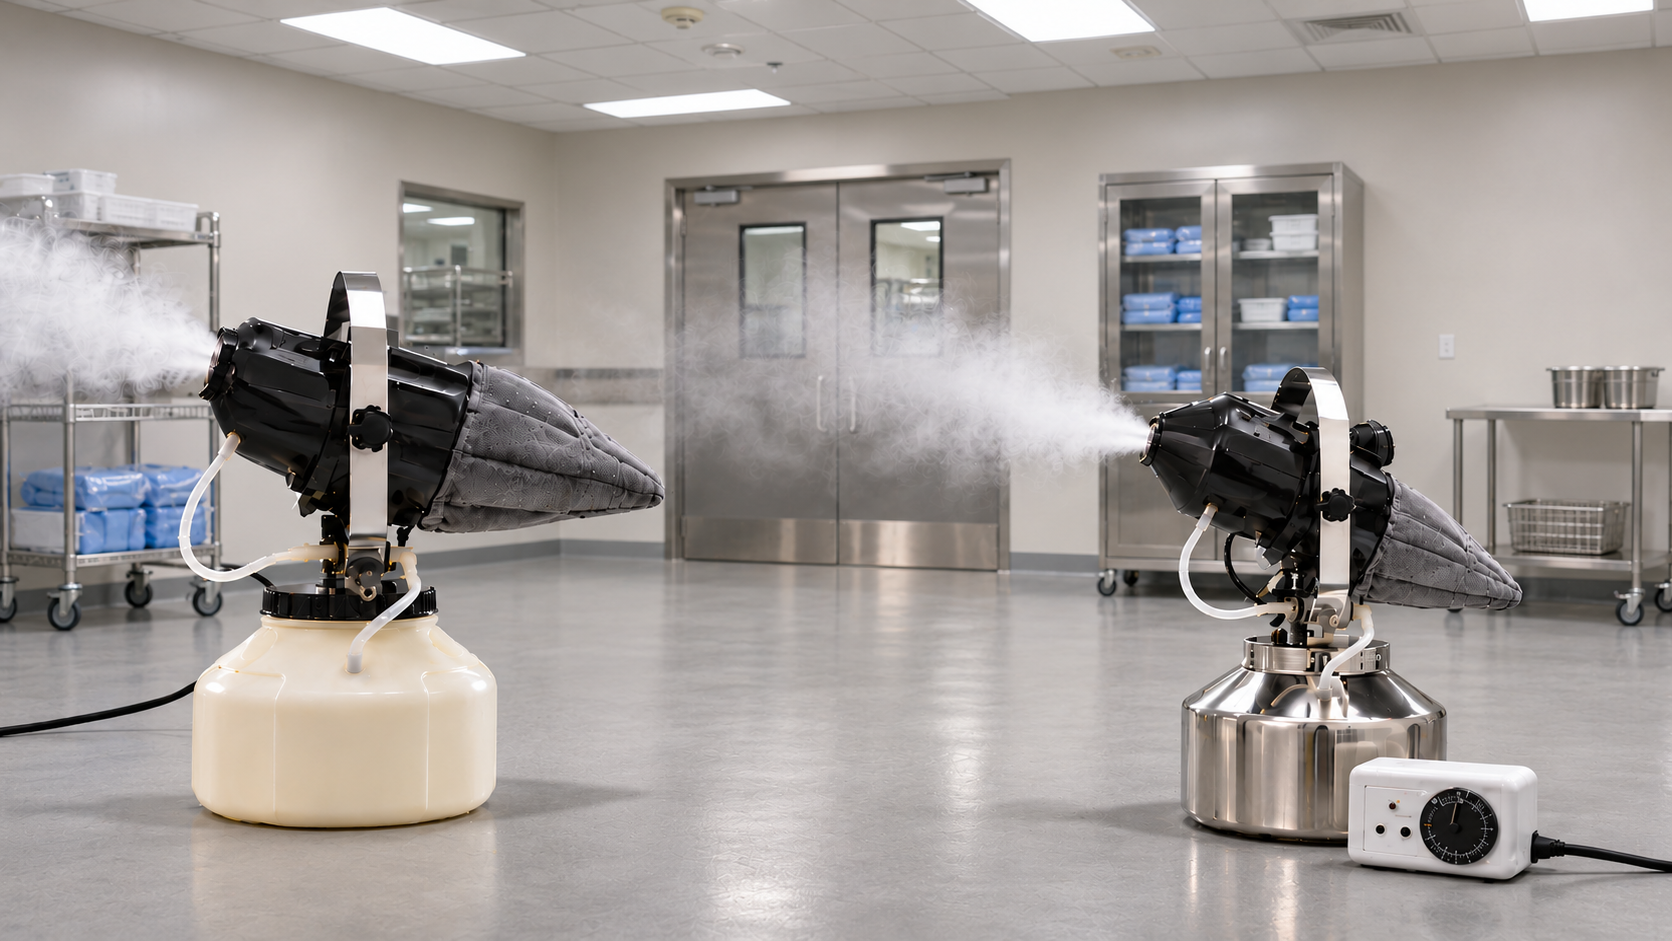
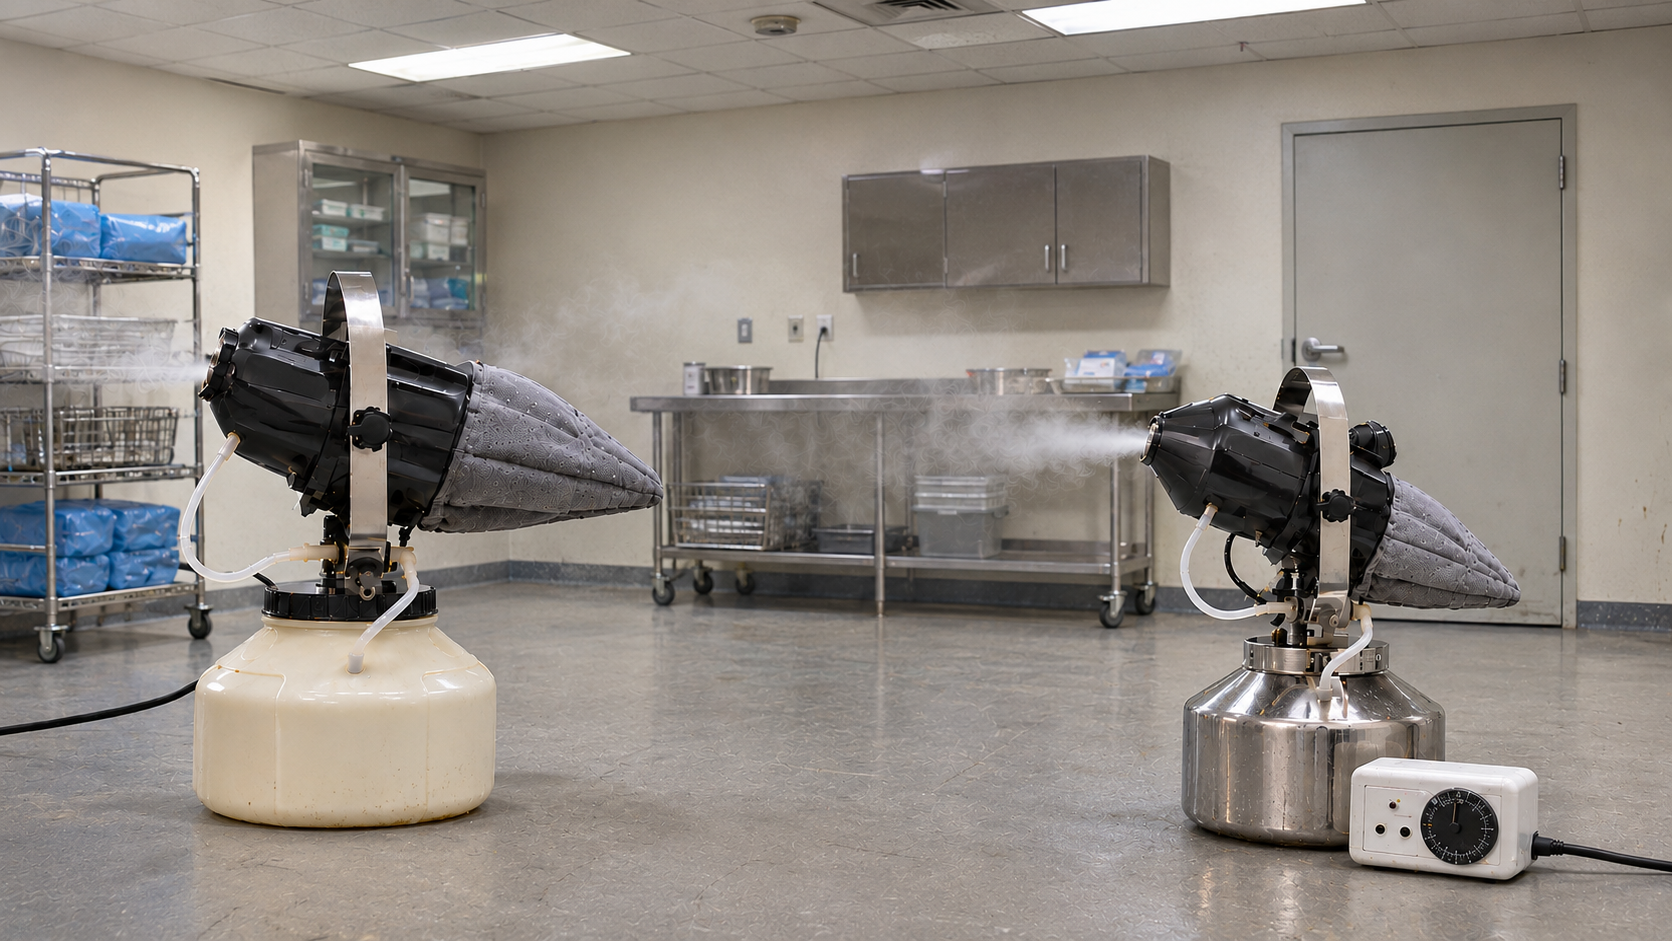
feat: add site-wide breadcrumb navigation

diff --git a/css/style.css b/css/style.css
@@ -143,6 +143,38 @@ img {
   width: auto;
 }
 
+.breadcrumbs {
+  padding: 112px 20px 18px;
+  background: #f7f7f7;
+}
+
+.breadcrumbs-inner {
+  display: flex;
+  align-items: center;
+  flex-wrap: wrap;
+  gap: 9px;
+  width: min(1240px, 100%);
+  margin: 0 auto;
+  color: #737373;
+  font-family: "Montserrat", sans-serif;
+  font-size: 13px;
+  font-weight: 600;
+}
+
+.breadcrumbs a {
+  color: #ed1c24;
+  text-decoration: none;
+}
+
+.breadcrumbs a:hover,
+.breadcrumbs a:focus-visible {
+  text-decoration: underline;
+}
+
+.breadcrumbs-separator {
+  color: #aaa;
+}
+
 .nav-wrapper {
   display: flex;
   align-items: center;

diff --git a/includes/blog-posts.php b/includes/blog-posts.php
@@ -1,46 +1,49 @@
 <?php
 
-$medicalGasContent = [
-  'Medical gas systems are central to patient-care areas, so planning should begin with the facility’s clinical requirements, room schedule and expected future demand. The source equipment, distribution network and terminal units need to be considered as one connected system.',
-  'Access for inspection and maintenance is as important as initial installation. Clearly identified zones, documented routes and coordinated service access can make future testing and repairs less disruptive to daily operations.',
-  'Every project should be designed, installed and verified by qualified professionals in accordance with the applicable local codes, standards and hospital procedures. A structured handover with drawings, operating information and maintenance records supports long-term reliability.',
+$foggingMachineContent = [
+  'Selecting a fogging machine begins with the space, application method and coverage requirement. Consider the room volume, the type of solution being used and the practical access available for an operator during treatment.',
+  'ULV equipment is often chosen where a fine, consistent aerosol is needed. Tank capacity, output control, timer functions and the ease of cleaning the machine all affect how well it fits into a regular workflow.',
+  'Always follow the chemical manufacturer\'s instructions, site safety procedures and applicable local requirements. A documented process for preparation, application and post-treatment cleaning helps teams use the equipment consistently.',
 ];
 
-$airflowContent = [
-  'Operating-theatre ventilation is not only an equipment decision. Room layout, ceiling coordination, supply and return locations, door use and maintenance access all influence how a system performs in day-to-day use.',
-  'A practical design allows filters and critical components to be inspected without unnecessary disruption. Teams should also plan for controls, monitoring points and service clearances early, before construction details are fixed.',
-  'Ventilation requirements vary by facility and procedure type. Working with qualified healthcare-design and engineering professionals helps ensure that the final approach follows the applicable standards and supports the facility’s infection-prevention programme.',
+$otEquipmentContent = [
+  'Operating theatre equipment should be planned as one coordinated environment rather than as separate purchases. The layout, clinical workflow, service access and connections for utilities all influence day-to-day usability.',
+  'Prioritise equipment that supports safe movement around the theatre and leaves clear access for cleaning and maintenance. Surgical lights, pendants, tables, control systems and storage should be considered alongside the room\'s HVAC and electrical design.',
+  'A clear equipment schedule, coordinated drawings and early input from clinical and engineering teams reduce changes during installation. Handover documentation and staff familiarisation then help the theatre operate as intended.',
 ];
 
-$equipmentCareContent = [
-  'Shared medical equipment needs a clear cleaning process that staff can follow reliably between uses. The process should identify who is responsible, which surfaces or components are included, and when the task must be completed.',
-  'Equipment materials and manufacturer instructions matter when selecting cleaning products and methods. A compatible process helps protect the device while supporting the facility’s infection-prevention procedures.',
-  'Written instructions, staff training and routine checks make the workflow easier to maintain. Facilities should review their process whenever equipment, products or local requirements change.',
+$ultrasonicCleanerContent = [
+  'Industrial ultrasonic cleaners use high-frequency sound waves in a cleaning solution to help remove contaminants from components with detailed surfaces, recesses and hard-to-reach areas.',
+  'When choosing a unit, assess the tank size, load type, cleaning chemistry, temperature control and cycle requirements. Basket design and drainage arrangements are also important for a practical and repeatable process.',
+  'The cleaning solution, operating temperature and cycle time should be selected for the material and contamination involved. Follow equipment instructions and site procedures for safe handling, rinsing, drying and maintenance.',
 ];
 
 return [
   [
-    'slug' => 'medical-gas-pipeline-planning',
-    'category' => 'Medical infrastructure',
-    'title' => 'Medical Gas Pipeline Planning: What Facilities Should Consider',
-    'excerpt' => 'A practical look at the design decisions that support reliable medical-gas delivery from source to point of use.',
-    'image' => 'images/medical-pipeline.png',
-    'content' => $medicalGasContent,
+    'slug' => 'choosing-a-fogging-machine',
+    'category' => 'Fogging & decontamination',
+    'title' => 'Choosing a Fogging Machine: Key Factors for Effective Coverage',
+    'excerpt' => 'A practical guide to selecting ULV fogging equipment for your space, workflow and treatment requirements.',
+    'image' => 'images/products/ulv-skd1100-steel.png',
+    'detail_image' => 'images/products/ulv-tantra.png',
+    'content' => $foggingMachineContent,
   ],
   [
-    'slug' => 'operating-theatre-airflow-planning',
+    'slug' => 'operating-theatre-equipment-planning',
     'category' => 'Operating theatre design',
-    'title' => 'Operating Theatre Airflow: Planning for Performance and Maintainability',
-    'excerpt' => 'Why room layout, filtration access and maintenance planning all matter when designing OT ventilation systems.',
-    'image' => 'images/products/air-handling-unit.png',
-    'content' => $airflowContent,
+    'title' => 'Operating Theatre Equipment: Planning a Functional OT',
+    'excerpt' => 'Key planning considerations for coordinated, maintainable operating theatre equipment and layouts.',
+    'image' => 'images/products/led-surgical-lights.png',
+    'detail_image' => 'images/products/ot-pendant.png',
+    'content' => $otEquipmentContent,
   ],
   [
-    'slug' => 'cleaning-medical-equipment-workflows',
-    'category' => 'Equipment care',
-    'title' => 'Planning Cleaning Workflows for Shared Medical Equipment',
-    'excerpt' => 'How written procedures, compatible products and clear responsibilities support safer equipment-care routines.',
+    'slug' => 'industrial-ultrasonic-cleaners-guide',
+    'category' => 'Industrial cleaning',
+    'title' => 'Industrial Ultrasonic Cleaners: A Guide to Selection and Use',
+    'excerpt' => 'Understand tank capacity, cleaning cycles and workflow considerations when selecting an ultrasonic cleaner.',
     'image' => 'images/products/ultrasonic-cleaners.png',
-    'content' => $equipmentCareContent,
+    'detail_image' => 'images/product-cleanroom.jpg',
+    'content' => $ultrasonicCleanerContent,
   ],
 ];

diff --git a/includes/header.php b/includes/header.php
@@ -24,6 +24,23 @@ function ariaCurrent(bool $isActive): string
 {
   return $isActive ? ' aria-current="page"' : '';
 }
+
+$pageLabels = [
+  'about.php' => 'About Us',
+  'blog.php' => 'Blogs',
+  'contact.php' => 'Contact Us',
+  'media.php' => 'Media',
+];
+$breadcrumbTitle = $pageTitle ?? ($pageLabels[$currentPage] ?? ucwords(str_replace(['-', '.php'], [' ', ''], $currentPage)));
+$breadcrumbParent = null;
+
+if ($currentPage === 'blog-detail.php') {
+  $breadcrumbParent = ['label' => 'Blogs', 'url' => SITE_ROOT . '/blog.php'];
+} elseif (in_array($currentPage, $categoryPages, true)) {
+  $breadcrumbParent = ['label' => 'Categories', 'url' => null];
+}
+
+$showBreadcrumbs = $currentPage !== 'index.php';
 ?>
 <!DOCTYPE html>
 <html lang="en">
@@ -142,3 +159,21 @@ function ariaCurrent(bool $isActive): string
       </div>
     </div>
   </header>
+
+  <?php if ($showBreadcrumbs): ?>
+    <nav class="breadcrumbs" aria-label="Breadcrumb">
+      <div class="breadcrumbs-inner">
+        <a href="<?php echo SITE_ROOT; ?>/">Home</a>
+        <?php if ($breadcrumbParent !== null): ?>
+          <span class="breadcrumbs-separator" aria-hidden="true">/</span>
+          <?php if ($breadcrumbParent['url'] !== null): ?>
+            <a href="<?php echo htmlspecialchars($breadcrumbParent['url']); ?>"><?php echo htmlspecialchars($breadcrumbParent['label']); ?></a>
+          <?php else: ?>
+            <span><?php echo htmlspecialchars($breadcrumbParent['label']); ?></span>
+          <?php endif; ?>
+        <?php endif; ?>
+        <span class="breadcrumbs-separator" aria-hidden="true">/</span>
+        <span aria-current="page"><?php echo htmlspecialchars($breadcrumbTitle); ?></span>
+      </div>
+    </nav>
+  <?php endif; ?>

diff --git a/blog-detail.php b/blog-detail.php
@@ -36,7 +36,7 @@ if ($post === null) {
           Back to Blogs
         </a>
         <h1 class="blog-article-title"><?php echo htmlspecialchars($post['title']); ?></h1>
-        <img class="blog-article-feature-image" src="<?php echo htmlspecialchars(SITE_ROOT . '/' . $post['image']); ?>" alt="<?php echo htmlspecialchars($post['title']); ?>">
+        <img class="blog-article-feature-image" src="<?php echo htmlspecialchars(SITE_ROOT . '/' . ($post['detail_image'] ?? $post['image'])); ?>" alt="<?php echo htmlspecialchars($post['title']); ?>">
         <p class="blog-article-intro"><?php echo htmlspecialchars($post['excerpt']); ?></p>
         <?php foreach ($post['content'] as $paragraph): ?>
           <p><?php echo htmlspecialchars($paragraph); ?></p>

diff --git a/turnkey-projects-validation.php b/turnkey-projects-validation.php
@@ -15,7 +15,7 @@ $tabs = [
       ],
       [
         'title' => 'Modular Operation Theatre Turnkey Setup',
-        'image' => 'images/products/ot-7.png',
+        'image' => 'images/products/ot.png',
         'description' => 'A modular operation theatre turnkey setup brings together panels and flooring, hermetically sealed doors, HVAC and laminar airflow, OT equipment and control panels, and medical gas outlets in one room designed around the surgical workflow. It is delivered as one coordinated build because a modular OT rarely performs as intended when these systems are assembled without considering how they interact.',
       ],
       [
